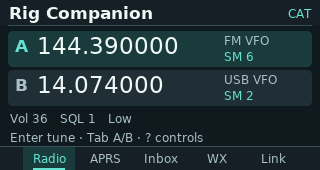
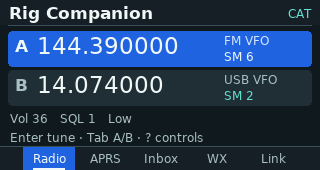
Rig Companion 0.2.2: brighter blue selection highlight
Selected list rows, Link rows, the active radio band and the active page tab
use a bright blue (#1f63e0) with white text instead of the dark teal.

Claude-Session: https://claude.ai/code/session_01GkgDxek8DcrWqUTSCbit2s

Changed region(s): [[0.0, 0.1765, 1.0, 0.4118], [0.0625, 0.8529, 0.25, 1.0]]

diff --git a/rig-companion/rigzero/app.py b/rig-companion/rigzero/app.py
@@ -16,7 +16,7 @@ from pathlib import Path
 from .bluetooth import BluetoothLink
 from .about import draw_about
 from .bridges import BleBridge, TcpBridge
-from .display import ACCENT, ALERT, BG, DIM, INK, LINE, PANEL, Display, Keyboard
+from .display import ACCENT, ALERT, BG, DIM, INK, LINE, PANEL, SELECT, SELECT_DIM, Display, Keyboard
 from .protocol import MODES, POWERS, valid_call
 from .radio import Radio
 from .storage import Store
@@ -433,15 +433,15 @@ class App:
         for index, band in enumerate(state["bands"]):
             y = 31 + index * 39
             selected = state["active"] == index
-            d.rect(8, y, 304, 36, "#193b3b" if selected else PANEL, 4)
-            d.text("A" if index == 0 else "B", 15, y + 5, ACCENT if selected else DIM, 17)
+            d.rect(8, y, 304, 36, SELECT if selected else PANEL, 4)
+            d.text("A" if index == 0 else "B", 15, y + 5, INK if selected else DIM, 17)
             hz = band["hz"]
             d.text(f"{hz / 1000000:.6f}" if hz else "---.------", 37, y + 1,
                    INK if state["connected"] else DIM, 23)
             mode = MODES[band["mode"]] if 0 <= band["mode"] < len(MODES) else "--"
             channel = {0: "VFO", 1: "MR", 2: "CALL"}.get(band["channel"], "--")
-            d.text(mode + " " + channel, 224, y + 2, DIM, 12, 83)
-            d.text(f"SM {band['meter']}" if band["meter"] >= 0 else "SM --", 224, y + 18, ACCENT, 12)
+            d.text(mode + " " + channel, 224, y + 2, SELECT_DIM if selected else DIM, 12, 83)
+            d.text(f"SM {band['meter']}" if band["meter"] >= 0 else "SM --", 224, y + 18, INK if selected else ACCENT, 12)
         band = state["bands"][state["active"]]
         power = POWERS[band["power"]] if 0 <= band["power"] < len(POWERS) else "--"
         d.text(f"Vol {state['volume'] if state['volume'] >= 0 else '--'}   SQL {band['squelch'] if band['squelch'] >= 0 else '--'}   {power}", 10, 111, DIM, 12, 300)
@@ -461,11 +461,12 @@ class App:
             start = max(0, self.selected - 2)
             for i, packet in enumerate(rows[start:start + 3]):
                 y = 30 + i * 32
-                if start + i == self.selected:
-                    d.rect(7, y, 306, 31, "#193b3b", 3)
-                d.text(packet.get("sender", packet["source"]), 12, y, ACCENT, 14, 125)
-                d.text(packet["kind"], 145, y + 2, DIM, 12, 90)
-                d.text(packet["time"][11:19], 249, y + 2, DIM, 12)
+                chosen = start + i == self.selected
+                if chosen:
+                    d.rect(7, y, 306, 31, SELECT, 3)
+                d.text(packet.get("sender", packet["source"]), 12, y, INK if chosen else ACCENT, 14, 125)
+                d.text(packet["kind"], 145, y + 2, SELECT_DIM if chosen else DIM, 12, 90)
+                d.text(packet["time"][11:19], 249, y + 2, SELECT_DIM if chosen else DIM, 12)
                 d.text(packet.get("summary", packet["text"]), 12, y + 16, INK, 12, 294)
         d.text("→ open · ← back · M map · N write" + (" · S " + ("live" if self.saved else "saved") if self.page == 1 else " · K KISS"),
                10, 130, DIM, 12, 302)
@@ -507,9 +508,9 @@ class App:
         for index, (label, _) in enumerate(options[start:start + 4]):
             y = 29 + index * 23
             if start + index == self.link_selected:
-                d.rect(7, y, 306, 22, "#193b3b", 3)
+                d.rect(7, y, 306, 22, SELECT, 3)
             d.text(label, 12, y + 2, INK, 14, 295)
-        status = "Searching… Open Menu 934" if self.scan_active else state["error"] or "Enter select · F/X move · Esc back"
+        status = "Searching… Open Menu 934" if self.scan_active else state["error"] or "→ select · ← back · F/X move"
         if self.ble and self.ble.enabled:
             status = self.ble.status
         if self.tcp and self.tcp.error:

diff --git a/rig-companion/rigzero/display.py b/rig-companion/rigzero/display.py
@@ -14,6 +14,7 @@ import pygame
 
 BG, HEADER, PANEL = "#10191e", "#151f25", "#202e35"
 INK, DIM, ACCENT, LINE, ALERT = "#f0f8f7", "#a8bfc3", "#65e2d2", "#3a5058", "#ffc875"
+SELECT, SELECT_DIM = "#1f63e0", "#d6e4ff"  # bright blue highlight and its secondary text
 
 
 class Display:
@@ -67,10 +68,10 @@ class Display:
         self.rect(0, 146, 320, 1, LINE)
         labels = labels or ["Radio", "APRS", "Inbox", "WX", "Link"]
         for i, (center, label) in enumerate(zip((49, 105, 161, 217, 273), labels)):
-            color = ACCENT if i == active else DIM
+            color = INK if i == active else DIM
             if active == i:
-                self.rect(center - 26, 147, 52, 23, "#193b3b")
-                self.rect(center - 16, 168, 32, 2, ACCENT)
+                self.rect(center - 26, 147, 52, 23, SELECT)
+                self.rect(center - 16, 168, 32, 2, INK)
             image = self.fonts[12].render(label, True, color)
             self.surface.blit(image, (center - image.get_width() // 2, 151))
 

diff --git a/rig-companion/package.py b/rig-companion/package.py
@@ -7,7 +7,7 @@ from pathlib import Path
 
 SOURCE = Path(__file__).resolve().parent
 PACKAGE = "rig-companion-zero"
-VERSION = "0.2.1-1"
+VERSION = "0.2.2-1"
 
 
 def build():

diff --git a/rig-companion/rigzero/__init__.py b/rig-companion/rigzero/__init__.py
@@ -1,3 +1,3 @@
 """Rig Companion for CardputerZero."""
 
-__version__ = "0.2.1"
+__version__ = "0.2.2"

diff --git a/rig-companion/README.md b/rig-companion/README.md
@@ -108,7 +108,7 @@ the logged-in user, who needs normal input, video and Bluetooth permissions.
 python3 -m unittest discover -s tests -v
 python3 -m rigzero --preview previews
 python3 package.py
-sudo dpkg -i dist/rig-companion-zero_0.2.1-1_arm64.deb
+sudo dpkg -i dist/rig-companion-zero_0.2.2-1_arm64.deb
 rig-companion-zero
 ```
 
